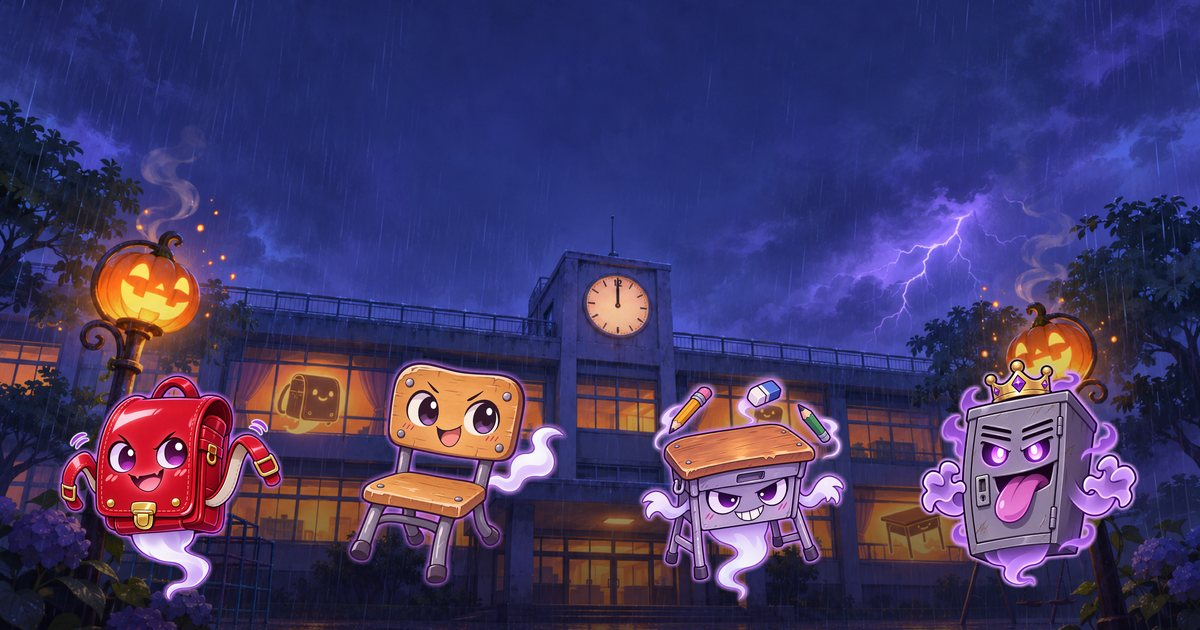
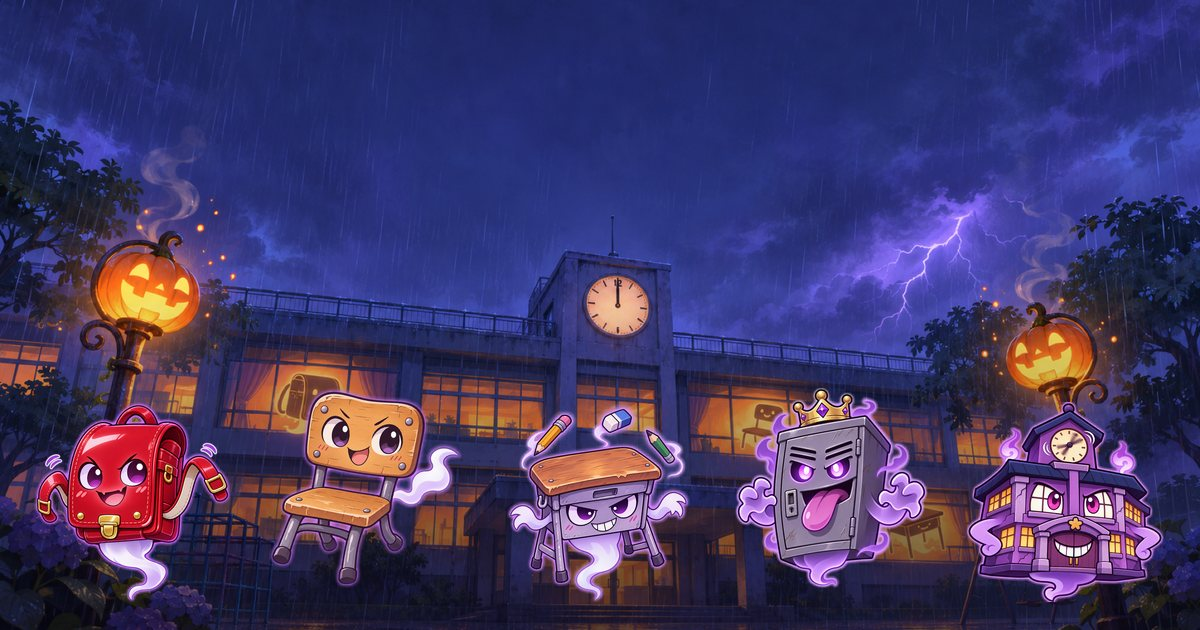
第3弾の生成画像4枚を追加（結果画面2枚・おばけこうしゃ・アイコン）
tools/IMAGE_PROMPTS.md 第3弾の「まとめて頼む文」で、Codex CLI 0.162.1 の内蔵画像ツール（image_gen）により生成（2026-11-07）。
ツールの出力にモデル名は表示されなかった。

- assets/result_win.png・result_lose.png 1920x1080
- assets/chara_kousha.png 1024x1024 透過（第2弾と同じ方法でふちの薄い色ノイズを除去）
- assets/icon_app.png 1024x1024
- tools/process_images.py で webp・アイコン各サイズ・retro/over_bg.png・og.jpg を作成
- process_images.py：OGP 画像でおばけこうしゃが2回並ぶ不具合を修正（CHARAS に kousha が入っているのに、さらに足していた）

Changed region(s): [[0.0308, 0.573, 0.9867, 0.9651]]

diff --git a/tools/process_images.py b/tools/process_images.py
@@ -193,7 +193,7 @@ def og():
         for x in range(w):
             shade.putpixel((x, y), (6, 3, 16, a))
     bg.alpha_composite(shade)
-    names = [n for n in CHARAS + ("kousha",) if os.path.exists(os.path.join(A, "chara_%s.png" % n))]
+    names = [n for n in CHARAS if os.path.exists(os.path.join(A, "chara_%s.png" % n))]
     size = 230 if len(names) <= 4 else 200
     gap = (w - size * len(names)) // (len(names) + 1)
     for i, n in enumerate(names):
